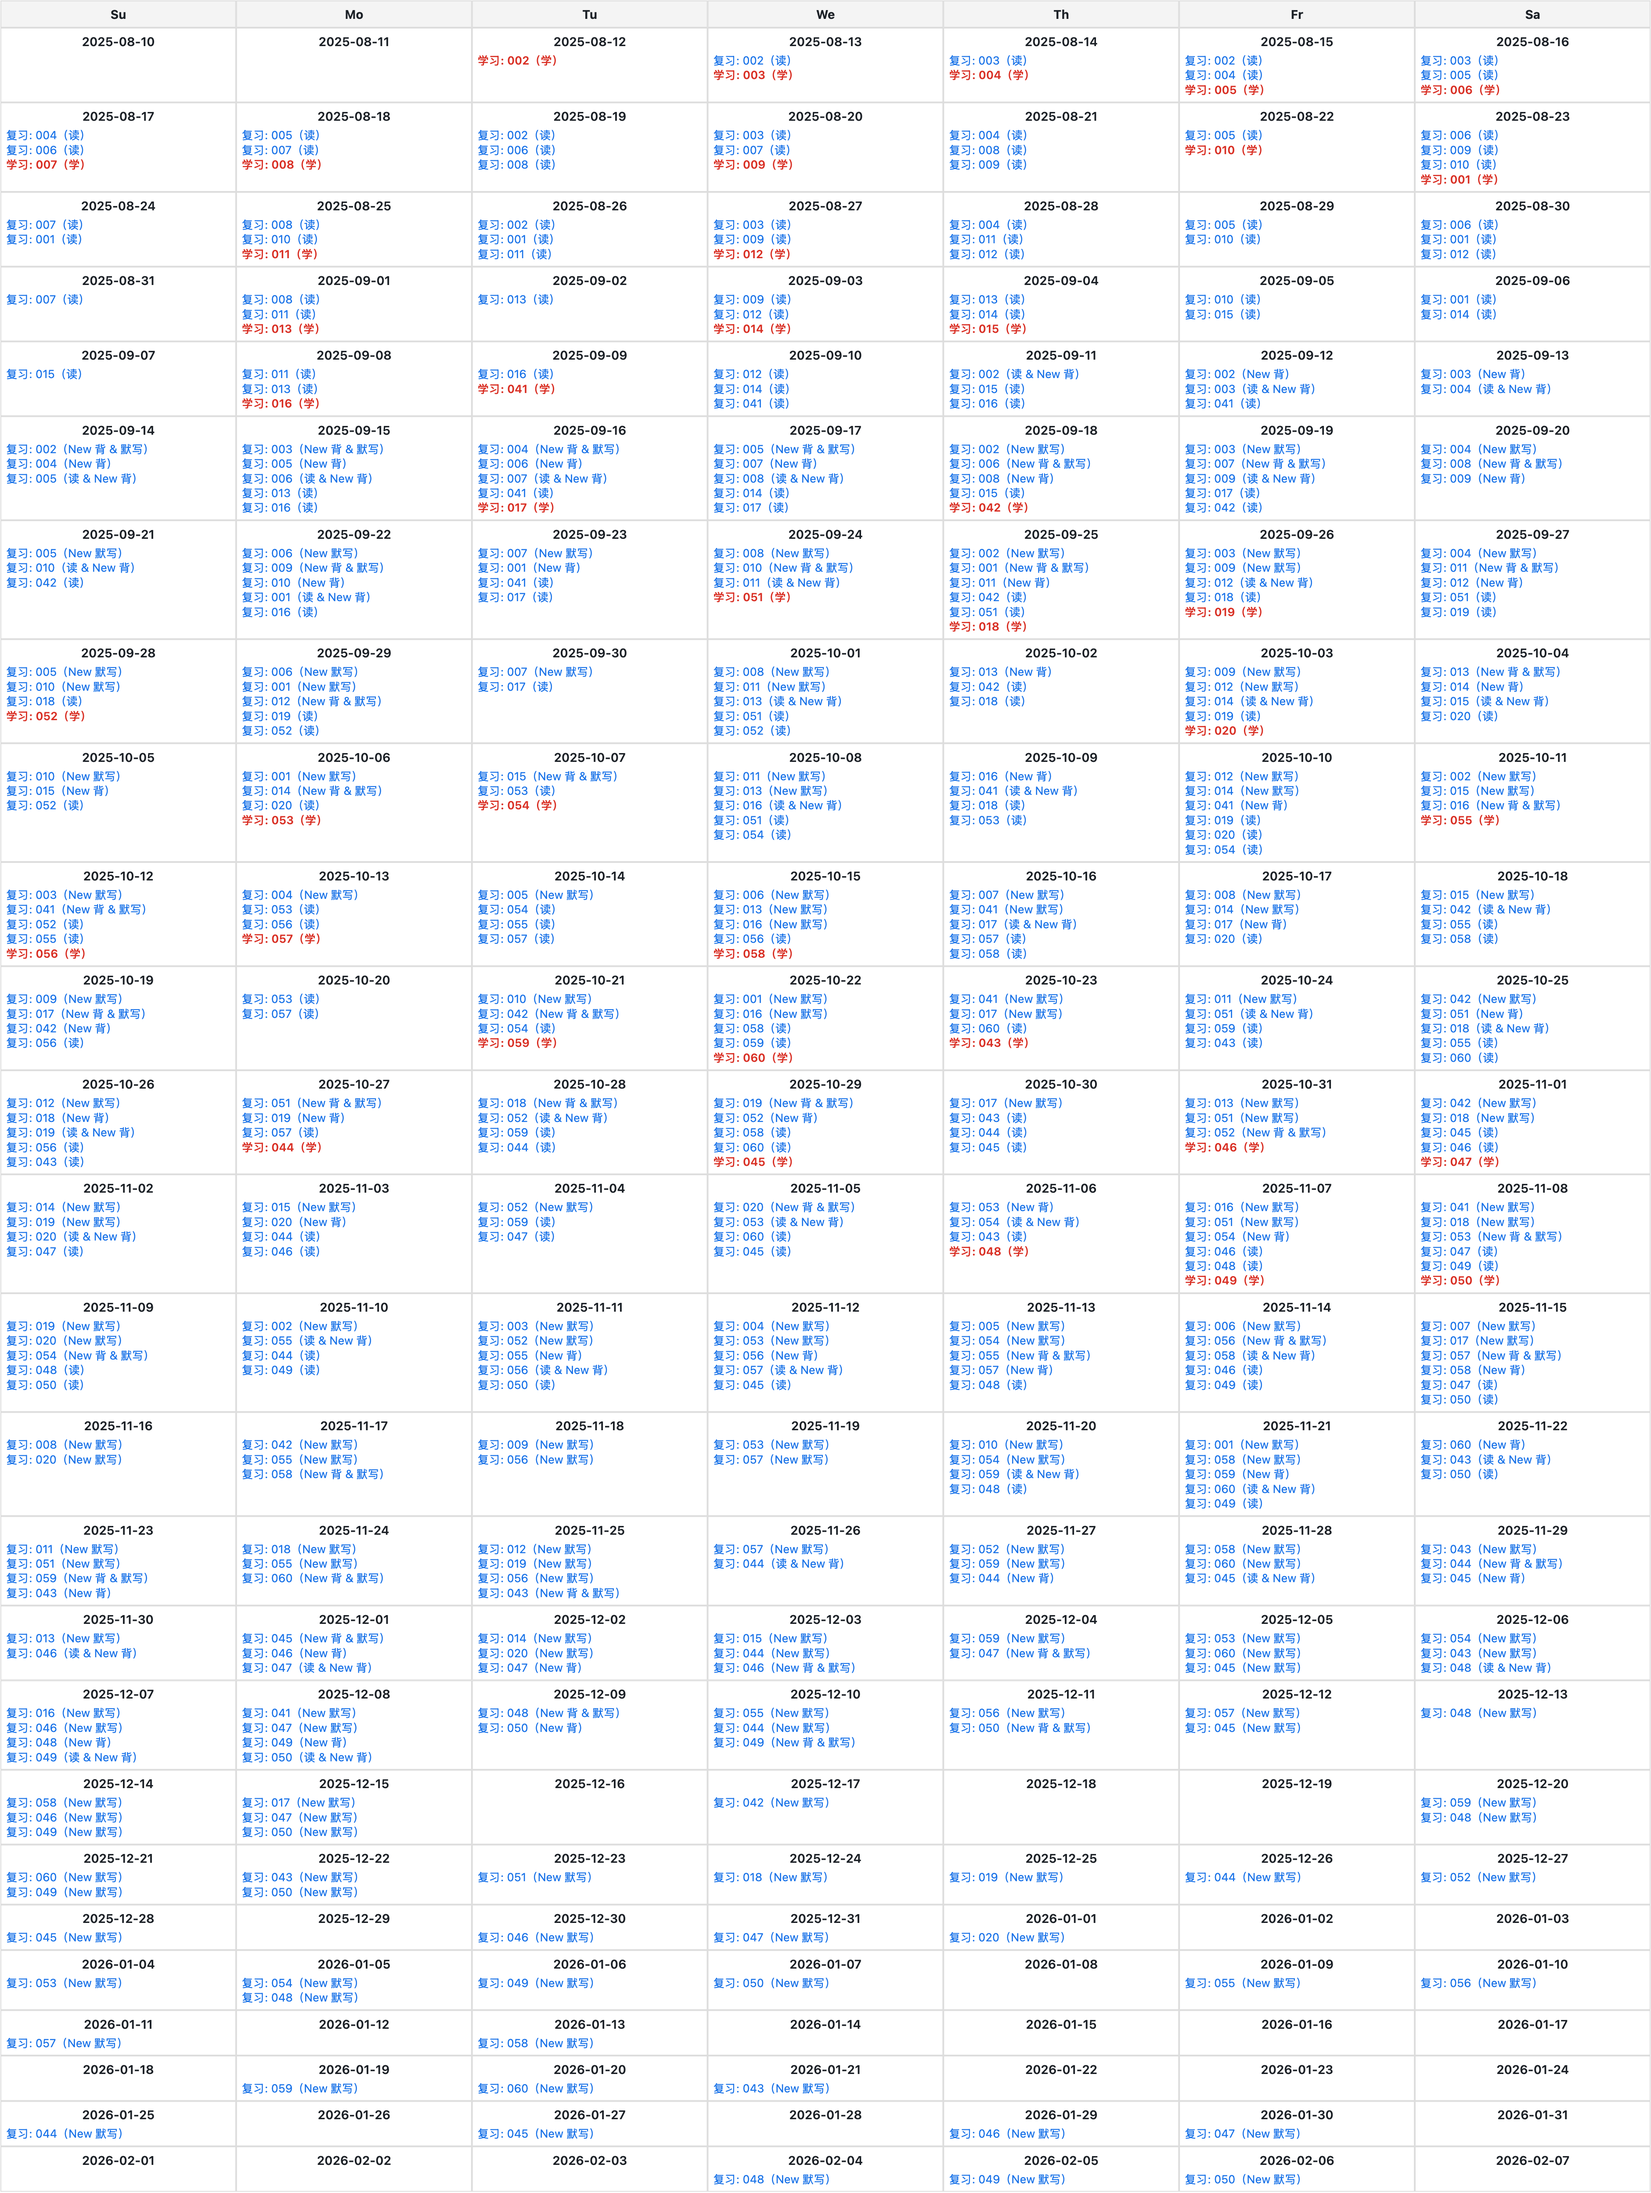
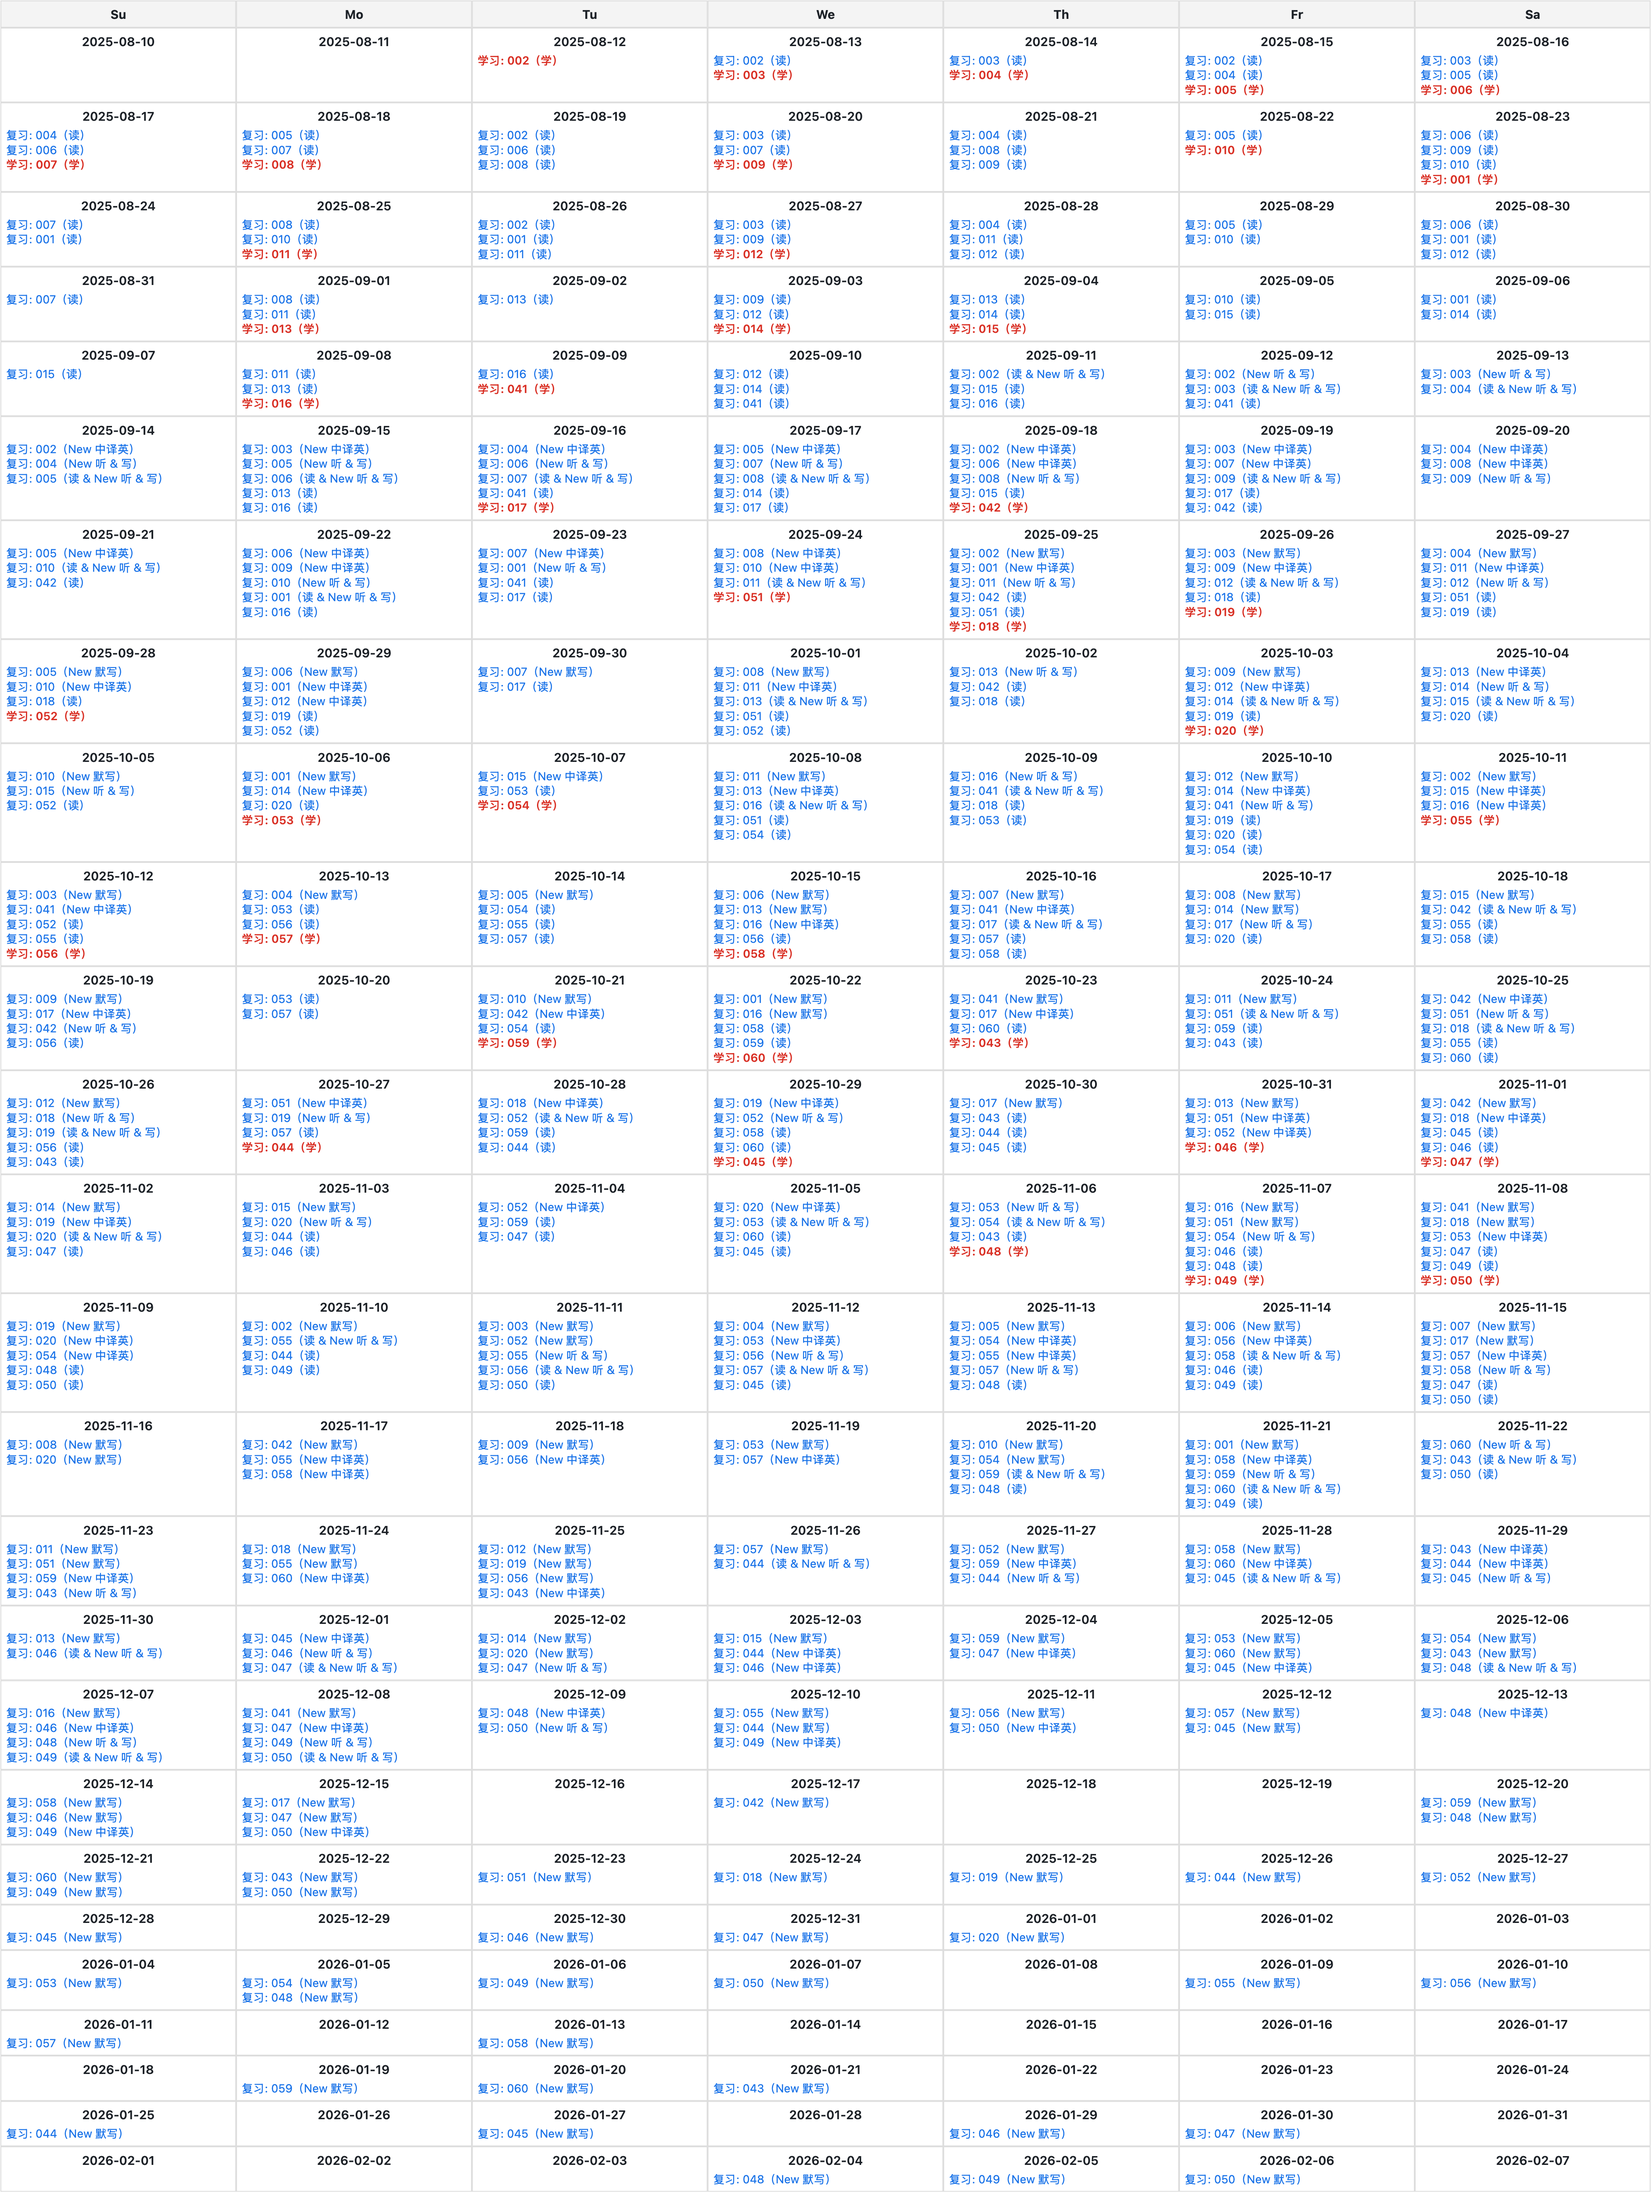
update: p48-p54

diff --git a/utils/html/generate-forgetting-curve-with-task-duration.html b/utils/html/generate-forgetting-curve-with-task-duration.html
@@ -96,7 +96,7 @@
   const defaultData = {
     write: {
       startDate: '2025-08-12',
-      reviewDays: '0,1,3,6,15,0,1,3,6,15,29',
+      reviewDays: '0,1,3,6,15,0,1,3,6,15,29,60',
       tasks: [
         {name: '002', duration: 1}, {name: '003', duration: 1}, {name: '004', duration: 1}, {name: '005', duration: 1},
         {name: '006', duration: 1}, {name: '007', duration: 1}, {name: '008', duration: 1}, {name: '009', duration: 1},
@@ -109,7 +109,7 @@
         {name: '043', duration: 1}, {name: '044', duration: 1}, {name: '045', duration: 1}, {name: '046', duration: 1},
         {name: '047', duration: 1}, {name: '048', duration: 1}, {name: '049', duration: 1}, {name: '050', duration: 1}
       ],
-      rounds: ['学', '读', '读', '读', '读', '读 & New 背', 'New 背', 'New 背 & 默写', 'New 默写', 'New 默写', 'New 默写', 'New 默写'],
+      rounds: ['学', '读', '读', '读', '读', '读 & New 听 & 写', 'New 听 & 写', 'New 中译英', 'New 中译英', 'New 默写', 'New 默写', 'New 默写'],
       restDays: '2025-08-19,2025-08-21,2025-08-24,2025-08-26,2025-08-28,2025-08-29,2025-08-30,2025-08-31,2025-09-02,2025-09-05,2025-09-06,2025-09-07,2025-09-10,2025-09-11,2025-09-12,2025-09-13,2025-09-14,2025-09-15,2025-09-17,2025-09-19,2025-09-20,2025-09-21,2025-09-22,2025-09-23,2025-09-27,2025-09-29,2025-09-30,2025-10-01,2025-10-02,2025-10-04,2025-10-05,2025-10-08,2025-10-09,2025-10-10,2025-10-14,2025-10-16,2025-10-17,2025-10-18,2025-10-19,2025-10-20,2025-10-24,2025-10-25,2025-10-26,2025-10-28,2025-10-30,2025-11-02,2025-11-03,2025-11-04,2025-11-05'
     },
     grammar: {
@@ -159,7 +159,7 @@
         label: '笔记',
         duration: 1
       }, {label: '笔记&App训练', duration: 1}, {label: '笔记', duration: 1}],
-      restDays: '2025-08-27,2025-08-29,2025-08-30,2025-09-02,2025-09-05,2025-09-06,2025-09-09,2025-09-13,2025-09-14,2025-09-19,2025-09-20,2025-09-22,2025-09-23,2025-10-02,2025-10-03,2025-10-04,2025-10-05,2025-10-06,2025-10-07,2025-10-11,2025-10-17,2025-10-18,2025-10-24,2025-10-25,2025-10-31,2025-11-01,2025-11-07,2025-11-08'
+      restDays: '2025-08-27,2025-08-29,2025-08-30,2025-09-02,2025-09-05,2025-09-06,2025-09-09,2025-09-13,2025-09-14,2025-09-19,2025-09-20,2025-09-22,2025-09-23,2025-09-24,2025-10-02,2025-10-03,2025-10-04,2025-10-05,2025-10-06,2025-10-07,2025-10-11,2025-10-17,2025-10-18,2025-10-24,2025-10-25,2025-10-31,2025-11-01,2025-11-07,2025-11-08'
     },
     math: {
       startDate: '2025-08-11',

diff --git a/english/write/compare.html b/english/write/compare.html
@@ -183,16 +183,9 @@
       if (part.added) {
         const words = part.value.split(/\s+/).filter(Boolean);
         words.forEach((w) => {
-          const clean = w.replace(/[^a-zA-Z']/g, '');
-          if (clean && !checkSpelling(clean)) {
-            // 拼写错误
-            resultHTML += `<span class="red-text-green-bg">${w}</span> `;
-            errors.push({word: w, correct: '', type: '拼写错误'});
-          } else {
-            // 多写单词
-            resultHTML += `<span class="added">${w}</span> `;
-            errors.push({word: w, type: '多写'});
-          }
+          // 简化逻辑：直接标记为多写单词
+          resultHTML += `<span class="added">${w}</span> `;
+          errors.push({word: w, type: '多写'});
         });
       } else if (part.removed) {
         const words = part.value.split(/\s+/).filter(Boolean);

diff --git a/english/word/simple-word/markdown/p51-p54.md b/english/word/simple-word/markdown/p51-p54.md
@@ -20,8 +20,8 @@
     - cock
     - chicken
 - plumber [ˈplʌmər]
-    - plumb- 铅
     - n. 管子工，水暖工
+    - plumb- 铅
 - **physicist** [ˈfɪzɪsɪst]
     - n. 物理学家
 - brick [brɪk]
@@ -46,9 +46,10 @@
     - n. 针织套衫，羊毛套衫
 - cellphone
     - n. 无线电话
-- hole
+- hole [hoʊl]
     - n. 洞，洞穴
     - Water had collected in the holes in the road.
+    - holy [ˈhoʊli] adj. 神圣的，圣洁的
 - homelessness
     - n. 无家可归
 - jackpot
@@ -56,7 +57,6 @@
 - pin [pɪn]
     - n. 针；钉
     - 词根：针
-        - pineapple 玻璃
 - bruise [bruːz]
     - n. 疼，愈伤，碰伤
     - The player received a bad bruise but laughed it off.
@@ -122,6 +122,7 @@
     - n. 海滩
 - downstairs
     - adv. 在楼下
+    - upstairs adv. 在楼上
 - **classic**
     - adj. 典型的，经典的
         - a classic case of "paralysis by analysis".
@@ -139,9 +140,11 @@
     - v. .. as 把...视为
 - lonely
     - adj. 孤独的，独自的
+    - lone
+        - adj. 单独的，独自的
 - **echo** [ˈekoʊ]
     - n. 回音； vi. 发出回声
-    - Never forget，there must be an echo 念念不忘，必有回响
+    - Never forget, there must be an echo 念念不忘，必有回响
 - nursery
     - n. 育儿所，保育室
 - ribbon [ˈrɪbən]
@@ -206,6 +209,9 @@
     - interest
 - fourfold
     - adj./adv. 四倍的
+    - fold n. 褶皱； v. 折叠
+    - eightfold adj. 八倍的；八层的
+        - Having a weak elderly parent have jumped eightfold in just one generation.
 - rectangle [ˈrektæŋɡl]
     - n. 长方形，矩形
     - rect- 直的
@@ -221,7 +227,8 @@
     - peanut 花生
 - luggage [ˈlʌɡɪdʒ]
     - n. 行李
-    - baggage(美)
+    - baggage - n. 行李(美)
+        - checked-baggage fees
 - thankfully
     - adv. 幸亏
 - shelf
@@ -230,7 +237,10 @@
 - **jealous**  [ˈdʒeləs]
     - adj. 嫉妒的，猜忌的；唯恐失去的
     - be jealous of 嫉妒某人
-        - monkeys，like humans，tend to be jealous of each of each other
+        - monkeys, like humans, tend to be jealous of each other
+    - jealousy [ˈdʒeləsi]
+        - n. 嫉妒，羡慕
+        - Jealousy and anger may have evolved to alert us to important inequalities.
 - rewrite
 - childbirth
     - n. 分娩；生孩子
@@ -307,10 +317,6 @@
         - The car ran off the road into a ditch.
     - 抛弃
         - There's plenty of incentive to ditch print.
-- baggage
-    - n. 行李
-    - luggage
-    - checked-baggage fees
 - hurry
     - vi. 匆忙，赶紧； vt. 使加快，催促
 - toss
@@ -323,8 +329,6 @@
     - calc- 石灰
     - 归结为，记录 chalk up to
         - Learn to laugh at them and chalk them up to experience. 学会笑而待之并且引以为鉴.
-- upstairs
-    - adv. 在楼上
 - eagerly
     - adv. 渴望地，急切地，热心地
     - **eager**  adj. 热心于，渴望
@@ -355,18 +359,9 @@
     - vt. 悬挂，吊；绞死
 - grownup
     - adj. 成年人的； n. 成年人
-- shopkeeper
-    - n. 小商店店主
-- eightfold
-    - adj. 八倍的；八层的
-    - fourfold
-    - Having a weak elderly parent have jumped eightfold in just one generation.
 - tomorrow
 - carpet
     - n. 地毯
-- jealousy [ˈdʒeləsi]
-    - n. 嫉妒，羡慕
-    - Jealousy and anger may have evolved to alert us to important inequalities.
 - **conference**
     - n. 会议（正式，大型）
     - **confer** vt. **授予**；vi. 商讨
@@ -382,8 +377,6 @@
 - bookstore
 - jaw [dʒɔː]
     - n. 颚，颔
-- lone
-    - adj. 单独的，独自的
 - solidly
     - adv. 坚固地；结实的
     - **solid** adj. 固体的；坚固的；n. 固体

diff --git a/english/grammar/simple-sentence/expansion/prepositional-phrase.md b/english/grammar/simple-sentence/expansion/prepositional-phrase.md
@@ -13,8 +13,7 @@
 - on: 某一天 on July 29th
 - in: 年月季节上午下午晚上 in March 2010
 - before/after: before graduating
-- from(自从...)
-- since(自从...): since 1914
+- from/since 自从...: since 1914
 - by(截止到/直到...): by 2025
 - until(截止到/直到...): until the early 20th century
 - for(持续...)
@@ -28,7 +27,7 @@
     - 地点: in the United States
     - 范围: in a 2014 study
 - above/over: 在...上面
-- under/below/beneath: 在...下面
+- under/below/beneath([bɪˈniːθ]): 在...下面
 - in front of: 在...之前
 - behind: 在...之后
 - near: 在...附近
@@ -53,7 +52,7 @@
     - get off the bus
     - turn off the light
         - turn 旋转
-- across/through: 穿过/经过...
+- across/through([θruː]): 穿过/经过...
     - across the Atlantic
     - through the forest
 - past: 经过...
@@ -71,16 +70,17 @@
         - A 是数词: two of the students
         - A 是量词: a piece of paper/a cut of tea
 - about: about migration
-- with: with a high BMI
+- with 伴随着有...: with a high BMI
 - without: 伴随着没有...
 - for:
     - 为了...(表示目的)
     - 因为...(表示原因)
     - 对于...(表示对象): for the whole country
 - by:
-    - 通过...方式或方法: by assembling a bicycle
+    - 通过...方式或方法: by assembling([ə'semblɪŋ]) a bicycle
     - 被...做(被动语态 + by + 动作发出者)
-    - 相差了...(表示变化的差额): <u>the number of annual visitors</u> has <u>increased by more than 50%</u> <u>since 1980</u>
+    - 相差了...(表示变化的差额): <u>the number of annual visitors</u> has <u>increased by more than 50%</u> <u>since
+      1980</u>
 - as:
     - 作为...: as "the end of the world"
     - 像...一样，如同...
@@ -123,9 +123,10 @@
     - 营销技巧
 - It take a while to do sth.
     - 做某事需要花上一段时间
+- personally [ˈpɜːrsənəli]
+    - adv. 在个人看来
 - complex([kəmˈpleks]) aspects of personality([ˌpɜːrsəˈnæləti])
     - 性格的复杂方面
-    - personally [ˈpɜːrsənəli] adv. 在个人看来 
 - neuroticism [njʊr'rɒtəsɪzəm]
     - n. 神经质，情绪不稳定性；神经过敏症
 - open-mindedness ['maɪndɪdnɪs]

diff --git a/english/word/simple-word/markdown/p48-p50.md b/english/word/simple-word/markdown/p48-p50.md
@@ -31,7 +31,7 @@
 - nonfiction [ˌnɒn'fɪkʃən]
     - n. 非小说作品，纪实文学
     - fiction n. 小说作品，虚构故事
-        - science([ˈsaɪəns]) fiction 
+        - science([ˈsaɪəns]) fiction
 - teamwork
     - n. 协同工作；配合
 - prince [prɪns]
@@ -112,7 +112,9 @@
     - 提倡
         - He championed cunning rather than virtue...
 - grandfather
+
 ---
+
 - tourism
     - n. 旅游业
 - junk [dʒʌŋk]
@@ -121,6 +123,8 @@
     - I've cleared out all that old junk from the floor.
 - housekeeper
     - n. 管家，杂物主管
+    - gatekeeper n. 看门人，守门人；门卫
+    - shopkeeper n. 小商店店主
 - **cart**
     - n. 手推车；马车
 - cake
@@ -226,7 +230,7 @@
     - n. 感恩节
 - **mess**
     - n. 混乱，困境； vt. 弄乱，搞乱
-    - in a mass 
+    - in a mass
     - 弄乱 mess up
         - <u>mess up</u> customer records
 - cab
@@ -239,8 +243,6 @@
     - n. 亲戚，亲属
     - next of kin 近亲
         - Her next of kin have been informed.
-- gatekeeper
-    - n. 看门人，守门人；门卫
 - guest [ɡest]
     - n. 客人；顾客； vt. 款待； adj. 客座的
     - guest worker 客籍工人

diff --git a/english/grammar/README.md b/english/grammar/README.md
@@ -31,8 +31,8 @@
 ### 主从复合句
 
 1. 名词性从句
-    - 宾语从句
-    - 表语从句
+    - [宾语从句](https://github.com/bowen-wu/postgraduate/blob/master/english/grammar/complex-sentence/noun-clauses/object-clauses.md)
+    - [表语从句](https://github.com/bowen-wu/postgraduate/blob/master/english/grammar/complex-sentence/noun-clauses/predicate-clauses.md)
     - 主语从句
 2. 定语从句
 3. 状语从句
